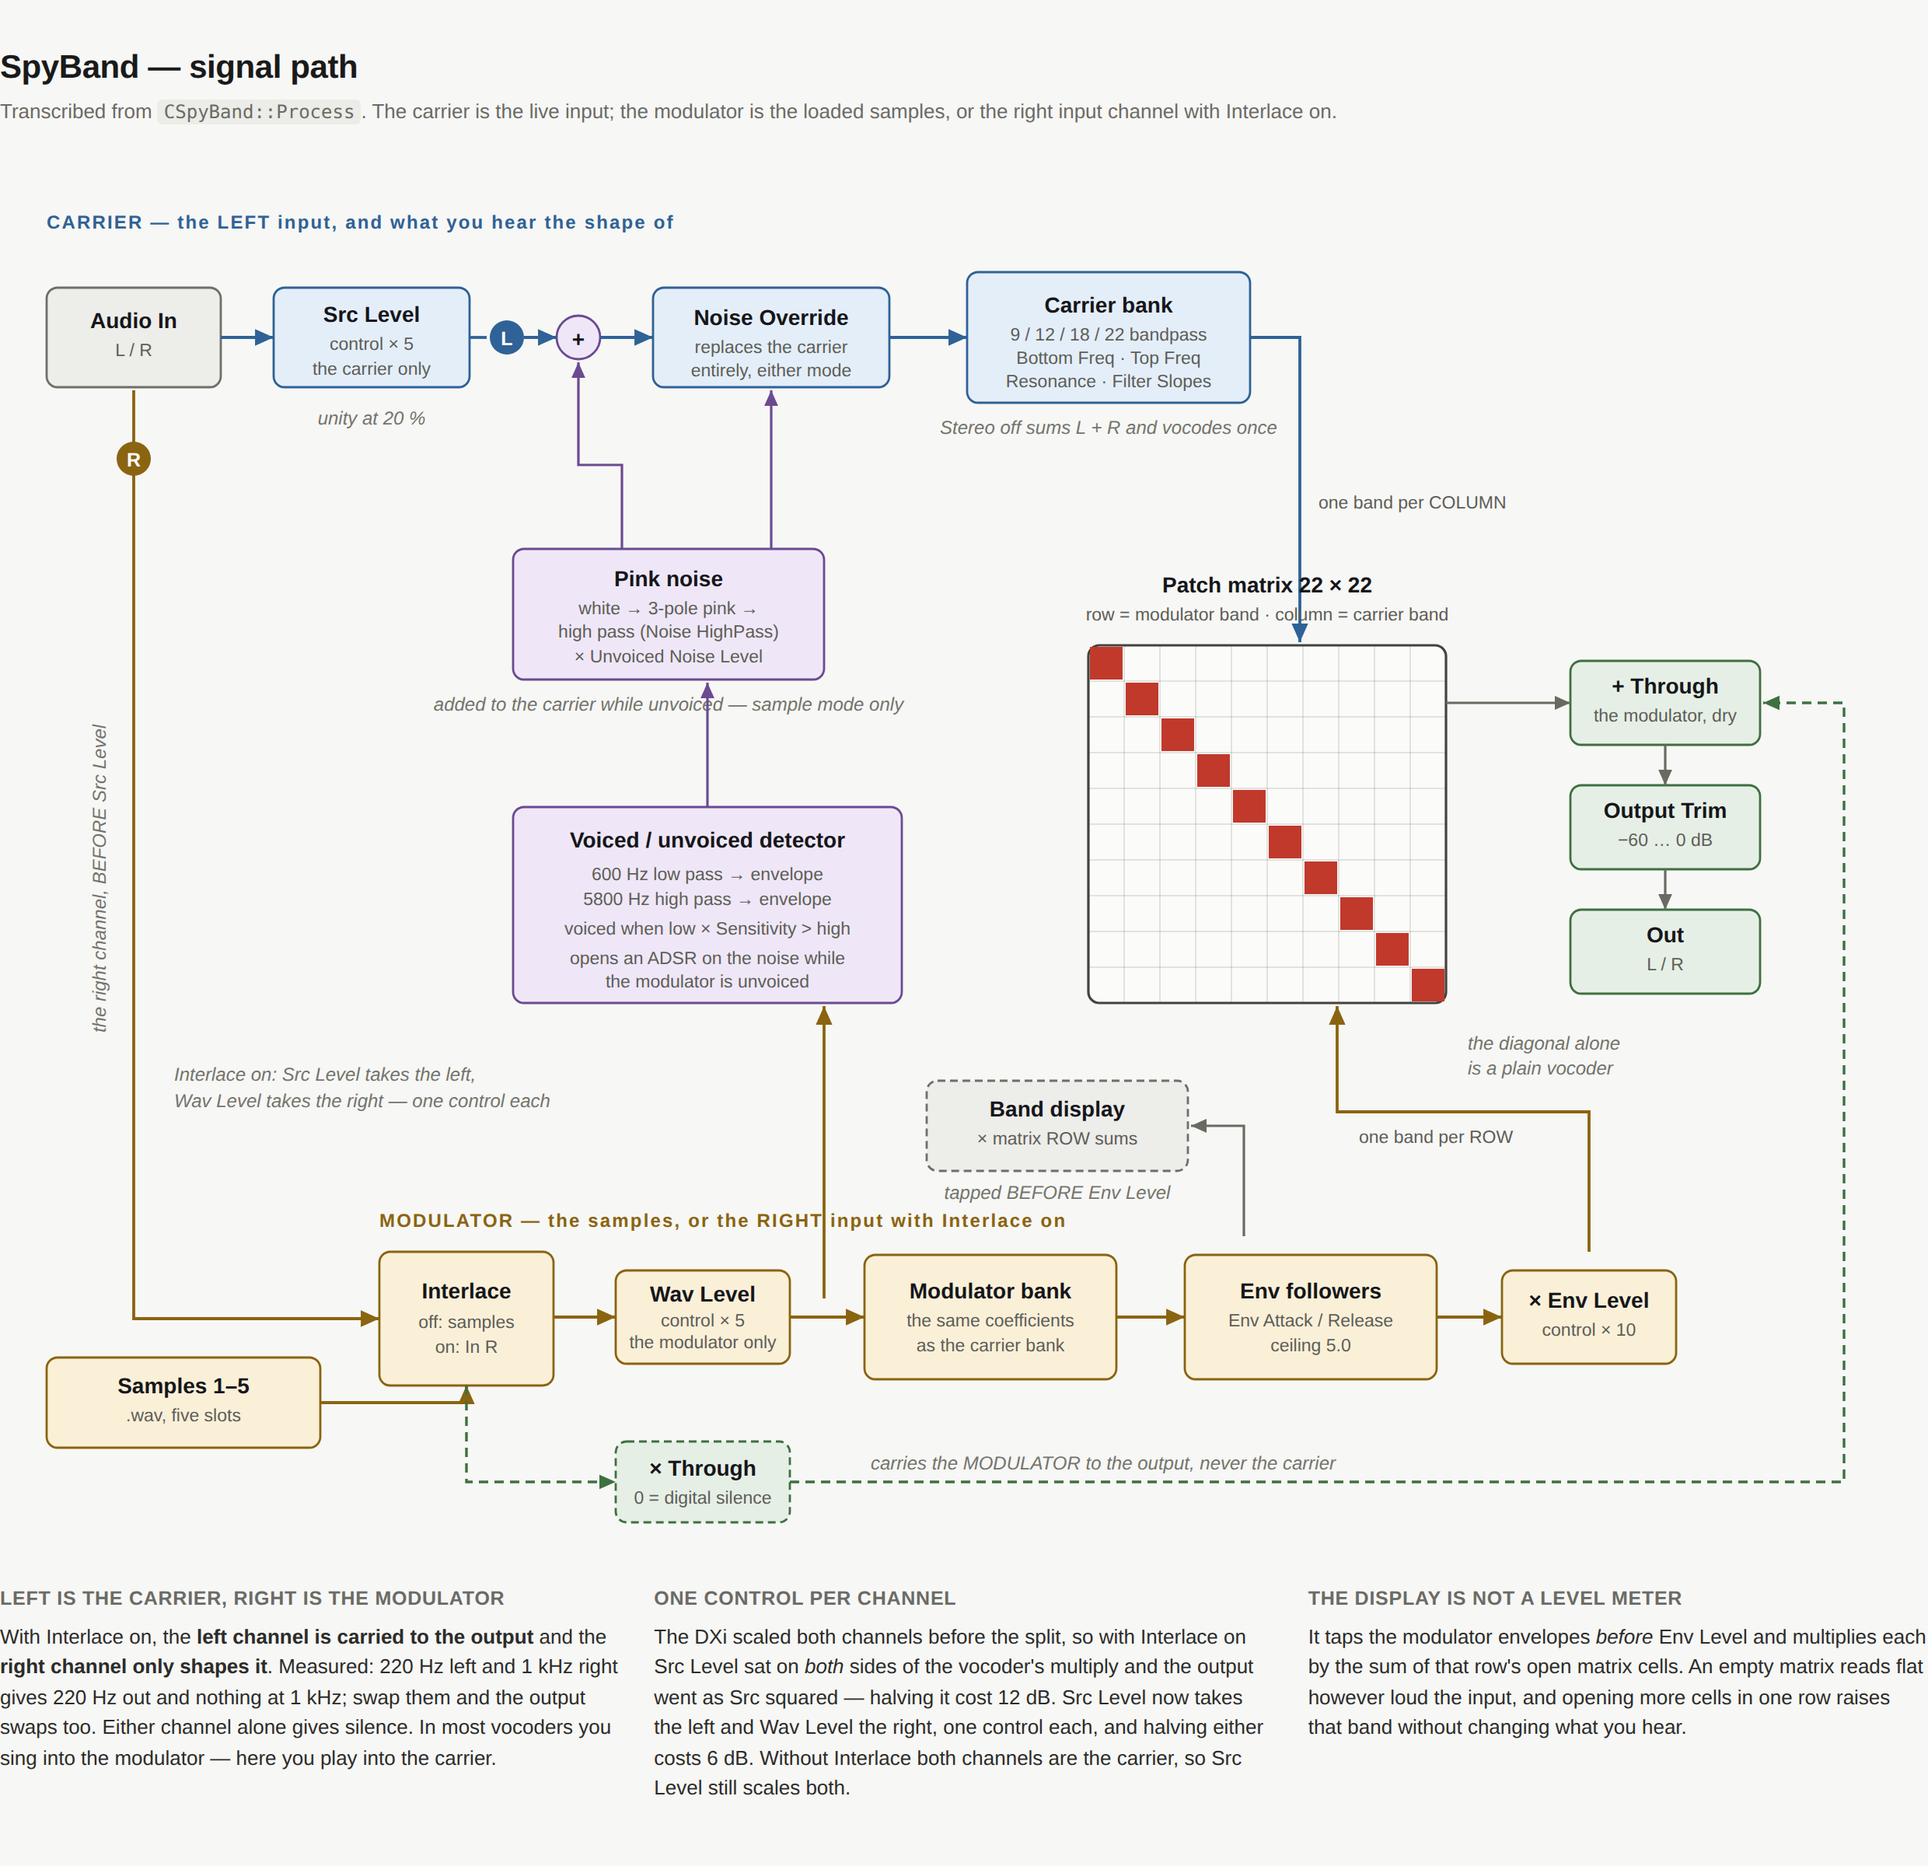
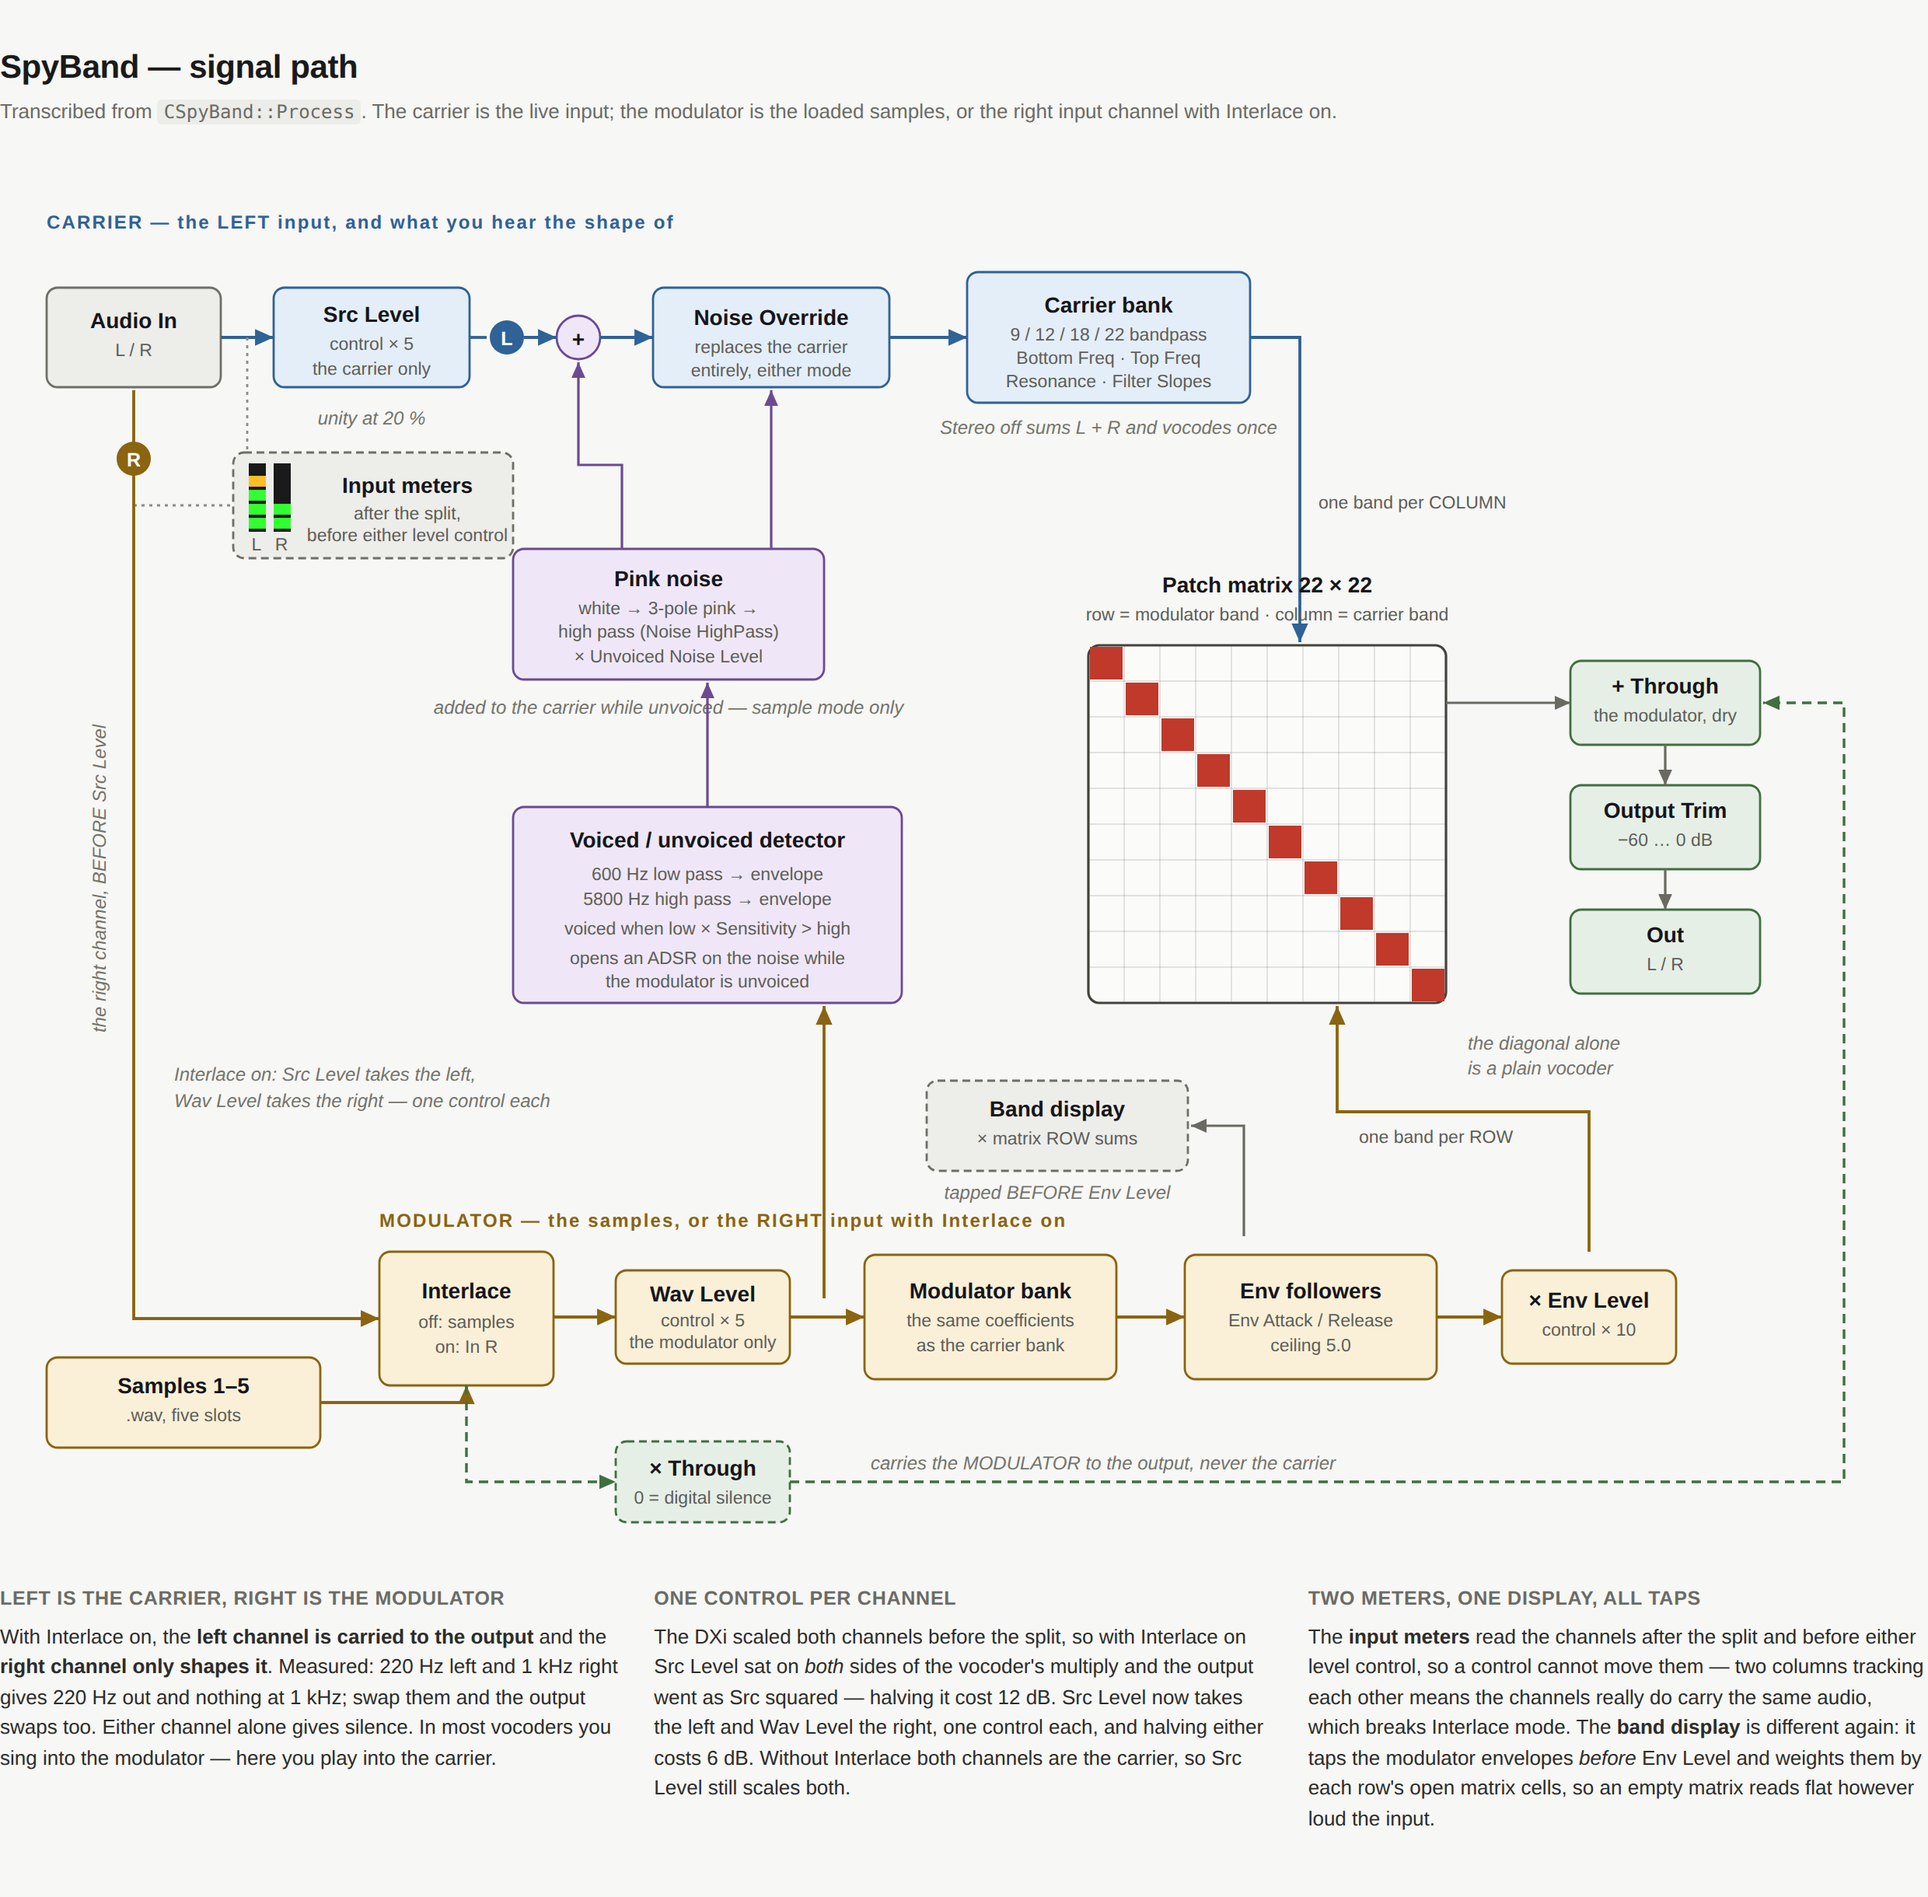
Move the input meters ahead of both level controls
They now tap immediately after the split, so neither Src Level nor Wav
Level can move them. That is what makes them a diagnostic: two columns
tracking each other mean the channels genuinely carry the same audio,
rather than merely being set to the same gain. The tests sweep both
controls across their range and assert neither column budges.

Added to the diagram as a tap - dashed box, dotted feeds off both wires -
which is now the consistent drawing for anything that only observes the
signal, the band display included.

Claude-Session: https://claude.ai/code/session_01CVzv57EDwkyyA83qbZTgh6

diff --git a/docs/signal-path.html b/docs/signal-path.html
@@ -49,6 +49,7 @@
       .wm   { fill: none; stroke: #8a6410; stroke-width: 1.9; }
       .wn   { fill: none; stroke: #6b4a92; stroke-width: 1.6; }
       .wt   { fill: none; stroke: #3f7040; stroke-width: 1.7; stroke-dasharray: 6 4; }
+      .tap  { fill: none; stroke: #8b8b82; stroke-width: 1.4; stroke-dasharray: 2 3; }
     </style>
   </defs>
 
@@ -91,13 +92,42 @@
   <path class="wc" d="M804,122 H836 V318" marker-end="url(#ac)"/>
   <text class="s" x="848" y="232" fill="#2f6296">one band per COLUMN</text>
 
+  <!-- ================= INPUT METERS =================
+       A TAP, not a stage: dashed box, dotted feeds, drawn hanging off the
+       two wires rather than sitting in them. They read the channels
+       immediately after the split and before either level control, which
+       is what lets two matching columns mean "the same audio", whatever
+       the controls are doing. -->
+  <path class="tap" d="M159,122 V196"/>
+  <path class="tap" d="M86,230 H150"/>
+
+  <rect class="bx neu" x="150" y="196" width="180" height="68" stroke-dasharray="5 3"/>
+
+  <g>
+    <rect x="160" y="203" width="11" height="44" fill="#1a1a1a"/>
+    <rect x="160" y="238" width="11" height="7" fill="#32ff32"/>
+    <rect x="160" y="229" width="11" height="7" fill="#32ff32"/>
+    <rect x="160" y="220" width="11" height="7" fill="#32ff32"/>
+    <rect x="160" y="211" width="11" height="7" fill="#ffbe28"/>
+
+    <rect x="176" y="203" width="11" height="44" fill="#1a1a1a"/>
+    <rect x="176" y="238" width="11" height="7" fill="#32ff32"/>
+    <rect x="176" y="229" width="11" height="7" fill="#32ff32"/>
+  </g>
+  <text class="s" x="165" y="259" text-anchor="middle" font-size="10">L</text>
+  <text class="s" x="181" y="259" text-anchor="middle" font-size="10">R</text>
+
+  <text class="t" x="262" y="222" text-anchor="middle" font-size="13">Input meters</text>
+  <text class="s" x="262" y="239" text-anchor="middle">after the split,</text>
+  <text class="s" x="262" y="253" text-anchor="middle">before either level control</text>
+
   <!-- ================= PINK NOISE ================= -->
   <rect class="bx noi" x="330" y="258" width="200" height="84"/>
   <text class="t" x="430" y="282" text-anchor="middle">Pink noise</text>
   <text class="s" x="430" y="300" text-anchor="middle">white → 3-pole pink →</text>
   <text class="s" x="430" y="315" text-anchor="middle">high pass (Noise HighPass)</text>
   <text class="s" x="430" y="331" text-anchor="middle">× Unvoiced Noise Level</text>
-  <text class="note" x="430" y="362" text-anchor="middle">added to the carrier while unvoiced — sample mode only</text>
+  <text class="note" x="430" y="364" text-anchor="middle">added to the carrier while unvoiced — sample mode only</text>
 
   <path class="wn" d="M400,258 V204 H372 V138" marker-end="url(#an)"/>
   <path class="wn" d="M496,258 V156" marker-end="url(#an)"/>
@@ -225,8 +255,8 @@
     <p>The DXi scaled both channels before the split, so with Interlace on Src Level sat on <em>both</em> sides of the vocoder's multiply and the output went as Src squared — halving it cost 12&nbsp;dB. Src Level now takes the left and Wav Level the right, one control each, and halving either costs 6&nbsp;dB. Without Interlace both channels are the carrier, so Src Level still scales both.</p>
   </div>
   <div>
-    <h2>The display is not a level meter</h2>
-    <p>It taps the modulator envelopes <em>before</em> Env Level and multiplies each by the sum of that row's open matrix cells. An empty matrix reads flat however loud the input, and opening more cells in one row raises that band without changing what you hear.</p>
+    <h2>Two meters, one display, all taps</h2>
+    <p>The <strong>input meters</strong> read the channels after the split and before either level control, so a control cannot move them — two columns tracking each other means the channels really do carry the same audio, which breaks Interlace mode. The <strong>band display</strong> is different again: it taps the modulator envelopes <em>before</em> Env Level and weights them by each row's open matrix cells, so an empty matrix reads flat however loud the input.</p>
   </div>
 </div>
 </div>

diff --git a/tests/VocoderTests.cpp b/tests/VocoderTests.cpp
@@ -520,33 +520,40 @@ int main ()
 		float peakL = 0.f, peakR = 0.f;
 		v.inputPeaks (peakL, peakR);
 
-		// Src Level defaults to 0.2, which the DSP takes as 0.2 * 5 = unity.
+		// The columns tap after the split and BEFORE either level
+		// control, so they read the raw input amplitudes.
 		close (peakL, 0.5, 0.01, "the left column does not read the left input");
 		close (peakR, 0.25, 0.01, "the right column does not read the right input");
 
-		// DEVIATION 6: with Interlace on the controls are SPLIT. Halving
-		// Src Level halves the left and leaves the right alone; halving
-		// Wav Level does the opposite. If either of these ever fails,
-		// Src Level has crept back onto the modulator.
-		Vocoder::Params quiet = p2;
-		quiet.inLevel = 0.1;
-		Vocoder v2;
-		v2.setSampleRate (sr);
-		v2.reset ();
-		v2.process (quiet, in, 2, out, 2, 2048);
-		v2.inputPeaks (peakL, peakR);
-		close (peakL, 0.25, 0.01, "Src Level does not scale the left column");
-		close (peakR, 0.25, 0.01, "Src Level still reaches the right channel");
+		// And neither level control may move them. If either of these
+		// fails a control has crept in front of the tap, and the columns
+		// have stopped being a diagnostic - two channels carrying the
+		// same audio would no longer read the same.
+		for (double src : { 0.05, 0.5, 1.0 })
+		{
+			Vocoder::Params moved = p2;
+			moved.inLevel = src;
+			Vocoder vv;
+			vv.setSampleRate (sr);
+			vv.reset ();
+			vv.process (moved, in, 2, out, 2, 2048);
+			vv.inputPeaks (peakL, peakR);
+			close (peakL, 0.5, 0.01, "Src Level moved the left column");
+			close (peakR, 0.25, 0.01, "Src Level moved the right column");
+		}
 
-		Vocoder::Params quietR = p2;
-		quietR.sampLevel = 0.1;
-		Vocoder v2b;
-		v2b.setSampleRate (sr);
-		v2b.reset ();
-		v2b.process (quietR, in, 2, out, 2, 2048);
-		v2b.inputPeaks (peakL, peakR);
-		close (peakL, 0.5, 0.01, "Wav Level reaches the left channel");
-		close (peakR, 0.125, 0.01, "Wav Level does not scale the right column");
+		for (double wav : { 0.05, 0.5, 1.0 })
+		{
+			Vocoder::Params moved = p2;
+			moved.sampLevel = wav;
+			Vocoder vv;
+			vv.setSampleRate (sr);
+			vv.reset ();
+			vv.process (moved, in, 2, out, 2, 2048);
+			vv.inputPeaks (peakL, peakR);
+			close (peakL, 0.5, 0.01, "Wav Level moved the left column");
+			close (peakR, 0.25, 0.01, "Wav Level moved the right column");
+		}
 
 		// THE POINT OF THEM: a mono source moves both columns the same,
 		// which is what says "these two channels are the same audio" -

diff --git a/source/Vocoder.cpp b/source/Vocoder.cpp
@@ -659,10 +659,6 @@ void Vocoder::process (const Params& params,
 	const bool wasEnabled = mPrevious.enable;
 	if (! params.enable && ! wasEnabled)
 	{
-		const double gain = params.inLevel * 5.0 + 0.00001;
-		const double gainR = params.interlaced
-			? (params.sampLevel * 5.0 + 0.00001)
-			: gain;
 		float peakL = 0.0f, peakR = 0.0f;
 		for (int f = 0; f < frames; ++f)
 		{
@@ -672,11 +668,11 @@ void Vocoder::process (const Params& params,
 			if (outR)
 				outR[f] = static_cast<float> (r);
 
-			// Meter what the taps WOULD see, so the columns keep moving
-			// while the plug-in is bypassed - which is when someone is
-			// most likely looking at them to work out what is arriving.
-			peakL = std::max (peakL, static_cast<float> (std::fabs (l * gain)));
-			peakR = std::max (peakR, static_cast<float> (std::fabs (r * gainR)));
+			// The columns keep moving while the plug-in is bypassed,
+			// which is when someone is most likely looking at them to
+			// work out what is arriving.
+			peakL = std::max (peakL, static_cast<float> (std::fabs (l)));
+			peakR = std::max (peakR, static_cast<float> (std::fabs (r)));
 		}
 		mSrcPeakL.store (peakL, std::memory_order_relaxed);
 		mSrcPeakR.store (peakR, std::memory_order_relaxed);
@@ -831,13 +827,14 @@ void Vocoder::process (const Params& params,
 		double srcR = (dryR + ditherNoise ())
 		            * (params.interlaced ? 1.0 : inLevel.v);
 
-		// Each column shows its channel after whatever control governs
-		// it: the left after Src Level, and the right after Wav Level
-		// when Interlace has made it the modulator, or after Src Level
-		// when it is simply the other half of the carrier.
-		peakL = std::max (peakL, static_cast<float> (std::fabs (srcL)));
-		peakR = std::max (peakR, static_cast<float> (
-			std::fabs (srcR) * (params.interlaced ? sampLevel.v : 1.0)));
+		// The columns tap the two channels immediately after the split
+		// and BEFORE either level control, so they show what is arriving
+		// and nothing else. That is what makes them a diagnostic: their
+		// reading does not move when Src Level or Wav Level does, so two
+		// columns that track each other mean the two channels really are
+		// the same audio - which is the failure they exist to catch.
+		peakL = std::max (peakL, static_cast<float> (std::fabs (dryL)));
+		peakR = std::max (peakR, static_cast<float> (std::fabs (dryR)));
 
 		const double pink = noiseValue () * noiseLevel.v;
 

diff --git a/source/Vocoder.h b/source/Vocoder.h
@@ -154,10 +154,13 @@ public:
 	    audio thread. */
 	int meter (double* out) const;
 
-	/** Peak of the two taps the panel meters, taken immediately after Src
-	    Level and before anything else touches them: [0] is the left - the
-	    carrier - and [1] the right, which is the modulator with Interlace
-	    on. Over the last block.
+	/** Peak of the two input channels, taken immediately after the split
+	    and BEFORE either level control: [0] is the left and [1] the right,
+	    over the last block.
+
+	    Deliberately ahead of Src Level and Wav Level, so the reading does
+	    not move when a control does and two columns that track each other
+	    mean the channels genuinely carry the same audio.
 
 	    Same threading story as the band meter: two atomics written by the
 	    audio thread, read by the editor's timer. */

diff --git a/PORTING-NOTES.md b/PORTING-NOTES.md
@@ -301,6 +301,13 @@ below the fundamental, against 65 dB below with a genuine stereo source.
 Two columns side by side answer "are these two channels actually different
 audio?" at a glance, which nothing else on the panel does.
 
+They tap **immediately after the split and before either level control**,
+which is the whole point: their reading cannot be moved by Src Level or Wav
+Level, so two columns that track each other mean the channels genuinely
+carry the same audio rather than merely being set to the same gain.
+`VocoderTests` sweeps both controls across their range and asserts neither
+moves either column.
+
 Scale is 0 dBFS down to −60, twenty segments, green with amber for the last
 9 dB and red for the last 3. Instant attack, gentle release, and a held
 peak that slides down to meet the bar after about a second — a meter that
@@ -597,10 +604,8 @@ At the factory default the change is inaudible — Src Level defaults to
 modulator is 1.00001. It only bites once the control is moved, which is
 exactly when the old behaviour was most confusing.
 
-The two LED columns follow the same split: the left column reads its
-channel after Src Level, the right after Wav Level when Interlace has made
-it the modulator, and after Src Level when it is simply the other half of
-the carrier.
+The LED columns sit ahead of both controls, so they are unaffected by this
+and by anything else on the panel — see §3.
 
 ### Smaller ones
 

diff --git a/docs/README.md b/docs/README.md
@@ -16,6 +16,11 @@ than to read:
 * the **band display taps the modulator envelopes before Env Level** and
   weights them by the patch matrix's row sums, so it is not a level meter.
 
+Everything that only observes the signal — the two input meters and the
+band display — is drawn as a **tap**: dashed box, dotted feed, hanging off
+a wire rather than sitting in it. Nothing drawn that way is in the audio
+path.
+
 **panel-preview.png** — the editor's layout, rendered by
 `tools/preview-panel.py` straight from the dialog units in the DXi's
 `SpyBand.rc`. It is not a screenshot and it is not a mock-up: the script
